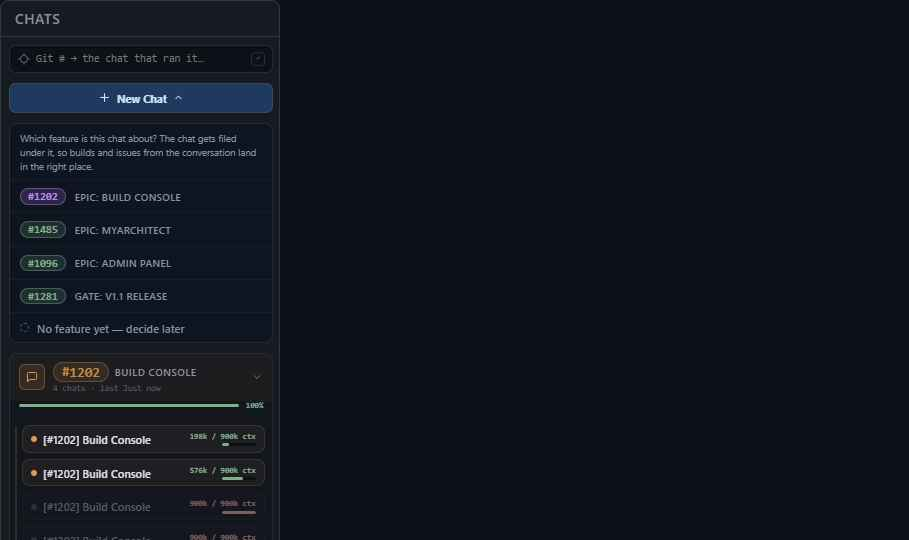
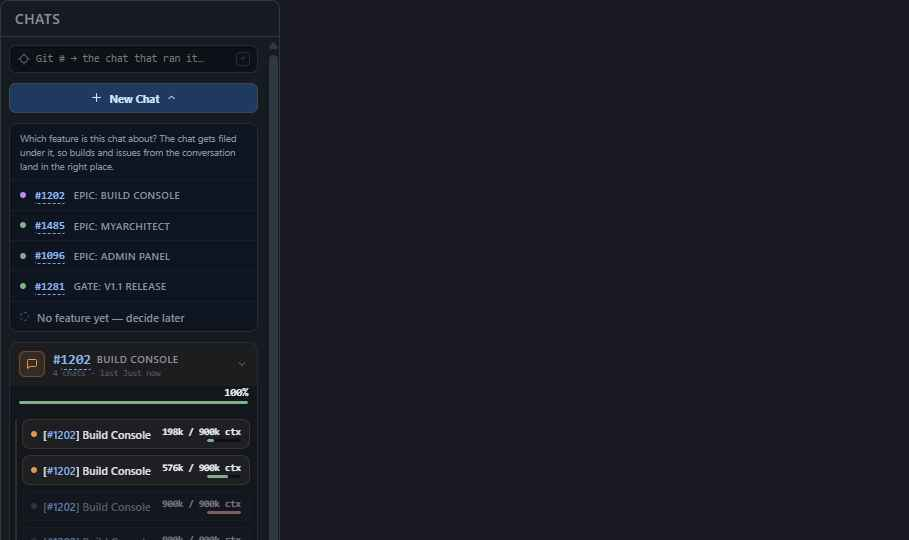
Chats Panel Design

diff --git a/desktop/BuildConsole/design-reference/design_handoff_chats_panel/Chats Panel.dc.html b/desktop/BuildConsole/design-reference/design_handoff_chats_panel/Chats Panel.dc.html
@@ -34,6 +34,7 @@
       <div style="padding:8px 10px 6px;font-size:9.5px;color:#8b949e;line-height:1.45;border-bottom:1px solid #1a1f27">Which feature is this chat about? The chat gets filed under it, so builds and issues from the conversation land in the right place.</div>
       <sc-for list="{{ newChatAnchors }}" as="na" hint-placeholder-count="6">
         <div style="display:flex;align-items:center;gap:9px;padding:8px 10px;cursor:pointer;border-bottom:1px solid #1a1f27" style-hover="background:#161b22">
+          <span style="{{ na.dotStyle }}"></span>
           <span style="{{ na.pillStyle }}">{{ na.pillLabel }}</span>
           <span style="font-size:10px;font-weight:600;color:#8b949e;text-transform:uppercase;letter-spacing:.03em;white-space:nowrap;overflow:hidden;text-overflow:ellipsis;flex:1">{{ na.label }}</span>
         </div>
@@ -58,8 +59,8 @@
         </div>
         <sc-if value="{{ ce.hasProg }}" hint-placeholder-val="{{ true }}">
           <div style="{{ ce.progTrackStyle }}" title="Closed issues out of all issues on this epic">
-            <span style="{{ ce.progBarStyle }}"><span style="{{ ce.progFillStyle }}"></span></span>
             <span style="{{ ce.progLabelStyle }}">{{ ce.progLabel }}</span>
+            <span style="{{ ce.progBarStyle }}"><span style="{{ ce.progFillStyle }}"></span></span>
           </div>
         </sc-if>
         <sc-if value="{{ ce.open }}" hint-placeholder-val="{{ false }}">
@@ -98,6 +99,15 @@ class Component extends DCLogic {
   componentDidUpdate() { if (window.lucide) window.lucide.createIcons(); }
   componentWillUnmount() { if (this._it) clearInterval(this._it); }
 
+  muted(hex) { // dim a hue toward the panel bg so pills read as calm accents, not neon
+    const n = parseInt(hex.replace('#',''), 16);
+    const [r,g,b] = [(n>>16)&255,(n>>8)&255,n&255];
+    const [dr,dg,db] = [0x16,0x1b,0x22];
+    const t = 0.45;
+    const mix = (c,d) => Math.round(c*(1-t)+d*t).toString(16).padStart(2,'0');
+    return '#' + mix(r,dr) + mix(g,dg) + mix(b,db);
+  }
+
   renderVals() {
     // Static sample data mirroring the live app's Chats panel (BuildConsole Shell).
     const RAW = [
@@ -132,13 +142,13 @@ class Component extends DCLogic {
       const full = ch.ctx >= 100;
       return {
         row:true,
-        wrapStyle:(sub ? 'margin-left:12px;' : '') + 'background:#0e1420;border:1px solid ' + (full ? '#1d232c' : ep.c + '38') + ';border-radius:8px;overflow:hidden' + (full ? ';opacity:.62' : ''),
+        wrapStyle:'flex:none;' + (sub ? 'margin-left:12px;' : '') + 'background:#0e1420;border:1px solid ' + (full ? '#1d232c' : ep.c + '38') + ';border-radius:8px;overflow:hidden' + (full ? ';opacity:.62' : ''),
         rowStyle:'display:flex;align-items:center;gap:6px;padding:6px 8px;cursor:pointer;background:' + ep.c + (full ? '08' : '14'),
         dotStyle:'width:6px;height:6px;border-radius:99px;flex:none;background:' + (full ? '#3a4258' : ep.c),
         nameStyle:'flex:1;min-width:0;font-size:11px;font-weight:600;color:' + (full ? '#7d8896' : '#dbe1e6') + ';white-space:nowrap;overflow:hidden;text-overflow:ellipsis',
         name:ch.name,
         ctx:(full ? '900k' : Math.round(ch.ctx * 9) + 'k') + ' / 900k ctx',
-        ctxLabelStyle:'font-size:8px;font-weight:800;white-space:nowrap;font-family:Consolas,ui-monospace,Menlo,monospace;color:' + (full ? '#c08a84' : ch.ctx >= 70 ? '#c9ab72' : '#7fb08a'),
+        ctxLabelStyle:'font-size:9.5px;font-weight:800;white-space:nowrap;font-family:Consolas,ui-monospace,Menlo,monospace;color:' + (full ? '#aeb6c2' : '#e6edf3'),
         ctxFillStyle:'display:block;height:100%;border-radius:99px;width:' + Math.min(100, ch.ctx) + '%;background:' + (full ? '#c08a84' : ch.ctx >= 70 ? '#c8a86a' : '#7fb08a')
       };
     };
@@ -154,15 +164,15 @@ class Component extends DCLogic {
       return {
         num:ep.num, name:ep.name, open:ep.open, rows,
         sub:allChats.length + (allChats.length === 1 ? ' chat' : ' chats') + ' · last ' + allChats[0].last,
-        boxStyle:'background:#12161d;border:1px solid #262c36;border-radius:9px;overflow:hidden',
+        boxStyle:'flex:none;background:#12161d;border:1px solid #262c36;border-radius:9px;overflow:hidden',
         headStyle:'display:flex;align-items:center;gap:8px;padding:8px 9px;cursor:pointer;background:' + ep.c + '0d',
-        numPillStyle:'flex:none;display:inline-flex;align-items:center;padding:1px 8px;border-radius:99px;font-family:Consolas,ui-monospace,Menlo,monospace;font-size:14px;font-weight:800;letter-spacing:-.01em;background:' + ep.c + '1c;border:1px solid ' + ep.c + '4d;color:' + ep.c + 'd9',
+        numPillStyle:'flex:none;font-family:Consolas,ui-monospace,Menlo,monospace;font-size:14px;font-weight:800;letter-spacing:-.01em;color:#7ab8f5',
         tileStyle:'width:24px;height:24px;flex:none;border-radius:6px;display:flex;align-items:center;justify-content:center;background:' + ep.c + '1f;border:1px solid ' + ep.c + '55;color:' + ep.c,
         hasProg:ep.pct !== null, progLabel:ep.pct + '%',
-        progTrackStyle:'display:flex;align-items:center;gap:7px;padding:0 9px 8px',
-        progBarStyle:'flex:1;height:3px;border-radius:99px;background:#0d1117;overflow:hidden',
+        progTrackStyle:'display:flex;flex-direction:column;gap:3px;padding:0 9px 8px',
+        progBarStyle:'width:100%;height:3px;border-radius:99px;background:#0d1117;overflow:hidden',
         progFillStyle:'display:block;height:100%;border-radius:99px;width:' + ep.pct + '%;background:' + barCol,
-        progLabelStyle:'flex:none;font-size:8px;font-weight:800;font-family:Consolas,ui-monospace,Menlo,monospace;color:' + barCol,
+        progLabelStyle:'align-self:flex-end;font-size:11px;font-weight:800;font-family:Consolas,ui-monospace,Menlo,monospace;color:#e6edf3',
         chevStyle:'display:inline-flex;width:12px;height:12px;color:#576069;flex:none;transform:rotate(' + (ep.open ? 90 : 0) + 'deg)',
         railStyle:'position:absolute;left:5px;top:8px;bottom:8px;width:2px;border-radius:99px;background:' + ep.c + '2b',
         newChatStyle:'height:22px;border-radius:6px;background:none;border:1px dashed ' + ep.c + '45;color:' + ep.c + ';font-size:9.5px;font-weight:700;cursor:pointer;width:100%'
@@ -183,7 +193,8 @@ class Component extends DCLogic {
       const st = FEAT_STATE[f.state];
       return {label:f.label,
         pillLabel:'#' + f.num,
-        pillStyle:'align-self:flex-start;flex:none;display:inline-flex;align-items:center;padding:1px 7px;border-radius:99px;font-family:Consolas,ui-monospace,Menlo,monospace;font-size:11px;font-weight:800;letter-spacing:-.01em;background:' + st.c + '29;border:1px solid ' + st.c + '66;color:' + st.c};
+        dotStyle:'width:6px;height:6px;border-radius:99px;flex:none;background:' + st.c,
+        pillStyle:'flex:none;font-family:Consolas,ui-monospace,Menlo,monospace;font-size:11px;font-weight:800;letter-spacing:-.01em;color:#7ab8f5'};
     });
 
     return { chatsFindQ:'', epics, newChatAnchors };

diff --git a/desktop/BuildConsole/design-reference/design_handoff_chats_panel/README.md b/desktop/BuildConsole/design-reference/design_handoff_chats_panel/README.md
@@ -36,17 +36,18 @@ Panel: `280px` wide, dark theme. `background:#161b22`, `1px solid #30363d` borde
 
 ### Epic card
 
-- **Header row**: 24×24 tile (`message-square` icon) tinted to the Epic's accent color · `#num` pill (mono 14px/800, tinted fill/border/text) ·
+- **Header row**: 24×24 tile (`message-square` icon) tinted to the Epic's accent color · `#num` pill (mono 14px/800, plain text in accent blue `#7ab8f5`, no fill) ·
   Epic name (10px/600, uppercase, tracking .05em, `#8b949e`) · subtitle below (8.5px mono, `#576069`, e.g. "4 chats · last Just now") · chevron-right at far right.
-- **Progress bar** (when present): thin 3px track (`#0d1117`), fill colored green ≥100%, amber ≥50%, else the Epic's accent; percentage label in mono 8px/800 to the right.
+  The Epic's accent hue lives only in the icon tile now — the `#num` pill text is a neutral accent blue, not the per-epic hue (see Accessibility note below).
+- **Progress bar** (when present): thin 3px track (`#0d1117`), fill colored green ≥100%, amber ≥50%, else the Epic's accent; percentage label sits **above** the bar, right-aligned, mono 11px/800, near-white `#e6edf3` (moved off the bar and enlarged for legibility).
 - **Expanded state**: a vertical rail line down the left, then one row per chat, plus a dashed "+ Continue in a new chat" button at the bottom (accent-tinted text and dashed border).
 
 ### Chat row
 
 `background:#0e1420`, rounded 8px, tinted border. Contents: small color dot · chat name — `[#num] EpicName`
 (11px/600, `#dbe1e6`, matching every chat filed under that epic) · right-aligned context usage — a label
-like "576k / 900k ctx" (mono 8px/800, green under 70%, amber 70–99%, red at 100%)
-above a 34×3px mini progress bar in the same color. Fully-used chats (100% context) render at reduced opacity.
+like "576k / 900k ctx" (mono **9.5px**/800, near-white `#e6edf3`, sized up and desaturated for legibility — no longer a low-contrast green/amber/red tint)
+above a 34×3px mini progress bar (which keeps the green/amber/red state coloring). Fully-used chats (100% context) render at reduced opacity.
 
 A sub-epic (e.g. "SUB-EPIC #1494 · MICROSOFT CHANGES") appears as a small uppercase mono divider label between
 chat rows when an Epic has one; its chats are indented slightly and follow the same row style.
@@ -59,8 +60,8 @@ app's current modal dialog for this flow.
 
 1. **Explainer row** — 9.5px `#8b949e` text: "Which feature is this chat about? The chat gets filed under it,
    so builds and issues from the conversation land in the right place." Bottom border `#1a1f27`.
-2. **Anchor rows** — one per epic/gate you can file the chat under: an accent-tinted `#num` pill (mono
-   11px/800, pill radius) followed by its `EPIC: <name>` or `GATE: <name>` label (10px/600, uppercase,
+2. **Anchor rows** — one per epic/gate you can file the chat under: a small 6px accent-colored dot (carries the per-epic hue) ·
+   `#num` in plain accent blue `#7ab8f5` text (mono 11px/800, no pill fill) · `EPIC: <name>` or `GATE: <name>` label (10px/600, uppercase,
    tracking .03em, `#8b949e`), same line. Each row bottom-bordered `#1a1f27`, hover fill `#161b22`.
 3. **"No feature yet — decide later"** — closing row, dashed empty dot, 11px/600 `#8b949e` text, no border.
 
@@ -84,10 +85,25 @@ Radii: 4–7px on pills and tiles, 7–9px on cards, 99px on pills/dots/bars.
 
 ## Screenshots (`screenshots/`)
 
-- `chats-panel-top.png` — default view: header, search field, New Chat button, Build Console epic expanded with its chats.
-- `chats-panel-subepic.png` — Portal epic expanded, showing a sub-epic divider and its nested chat.
-- `chats-panel-bottom.png` — collapsed epic cards (Portal, Application Core, Admin Panel, Portal Admin, Gate: v1.1 Release) scrolled to the end of the list.
-- `chats-panel-new-chat-dropdown.png` — the New Chat dropdown open, showing target epic, topic, model, context and launch controls.
+- `chats-panel-current.png` / `chats-panel-top.png` — default view: header, search field, New Chat dropdown open (target-epic anchor rows), Build Console epic expanded with its chats.
+- `chats-panel-collapsed.png` — scrolled down: the tail of the Build Console chat list plus the remaining epic cards collapsed (Portal, Application Core, Admin Panel, Portal Admin).
+
+## Accessibility fix (contrast pass)
+
+Every colored badge/pill previously set saturated-hue text on a darker tint of the *same* hue (e.g. tan-on-orange,
+teal-on-teal) — a same-luminance boundary that fails WCAG contrast and reads as blurred for users with astigmatism.
+Fixed by separating hue (identity) from luminance (legibility):
+
+- **Epic-number pill / anchor-row pill** (`#1202` etc.) — no longer a tinted fill. Plain text in a single neutral
+  accent blue `#7ab8f5` on the dark card background (contrast ≈ 8:1). The per-epic hue now lives only in the icon
+  tile (epic rows) and a small 6px dot (New Chat anchor rows) — never in text color.
+- **Context-gauge text** (`27k / 900k ctx`) — bumped from 8px to 9.5px, recolored from a low-contrast state tint to
+  near-white `#e6edf3`.
+- **Progress percentage label** (`83%`) — moved off the end of the bar to sit above it, enlarged to 11px, recolored
+  to near-white `#e6edf3`.
+
+All pairings were run through the WCAG relative-luminance contrast formula; each meets ≥4.5:1 (large text ≥3:1).
+The bars themselves keep their green/amber/red/per-epic state coloring — only text-on-color was touched.
 
 ## Assets
 
